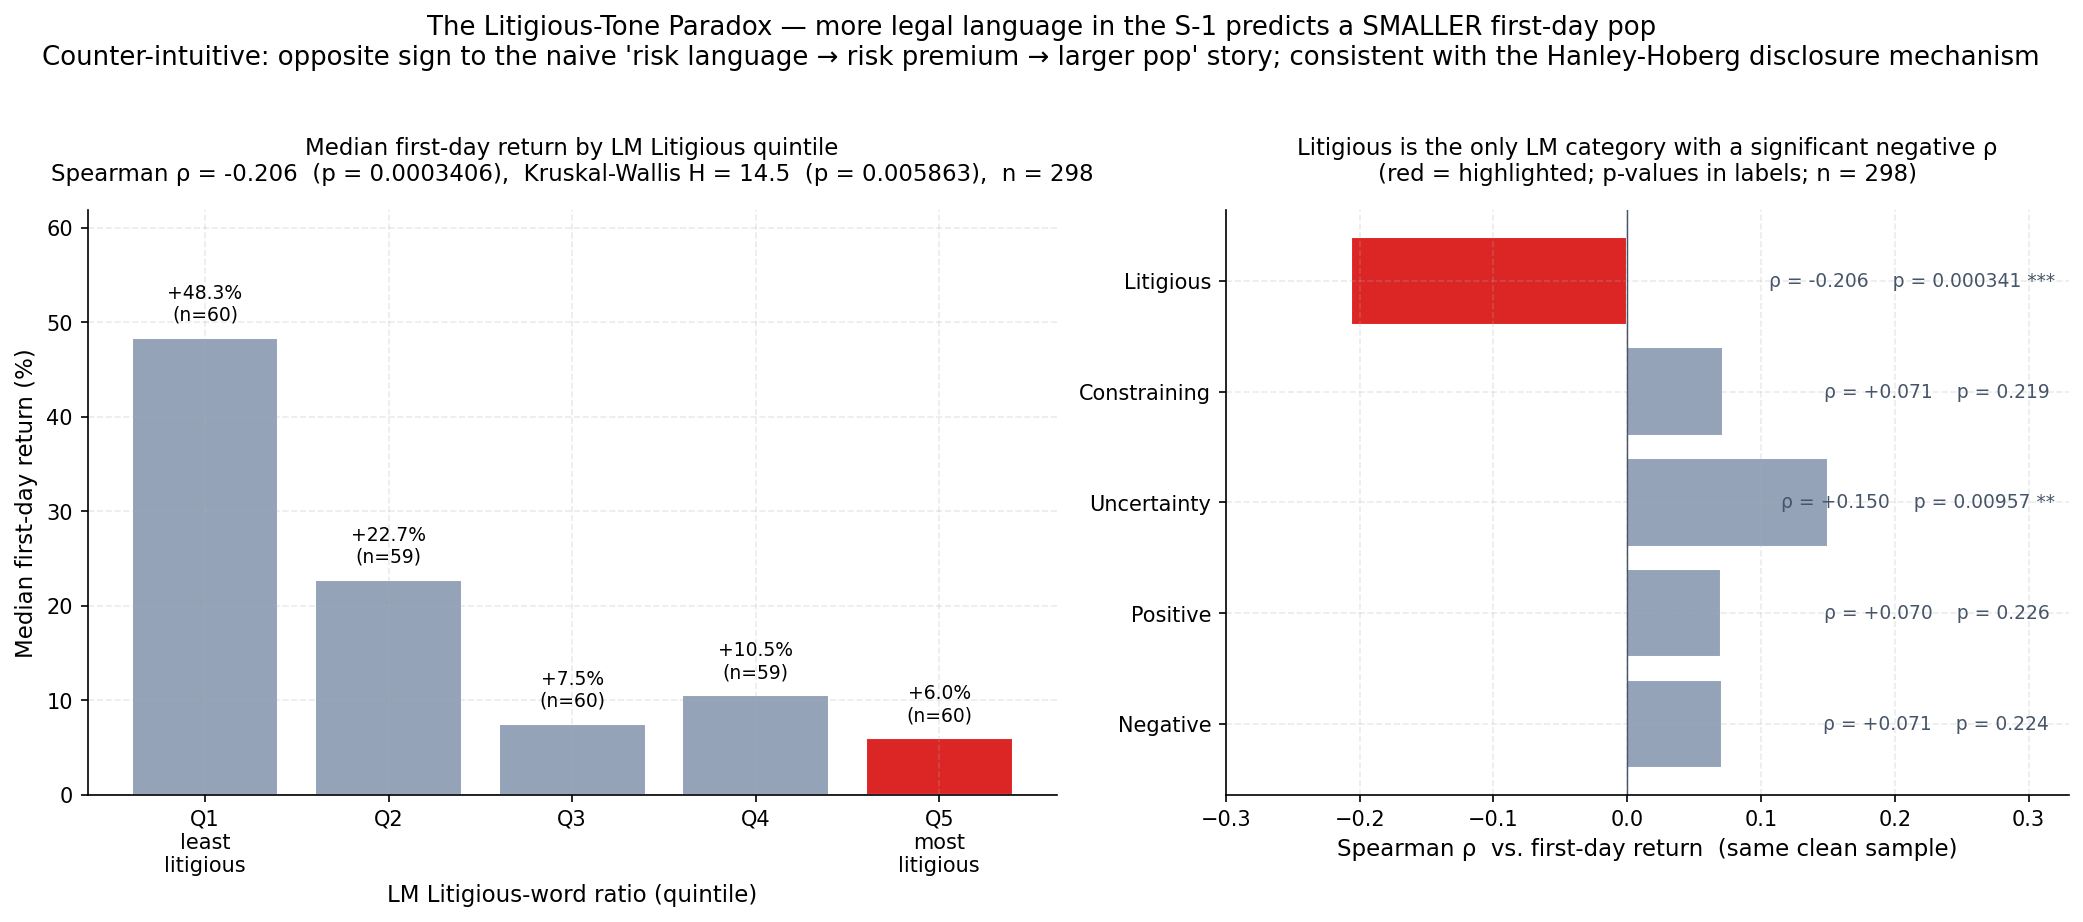
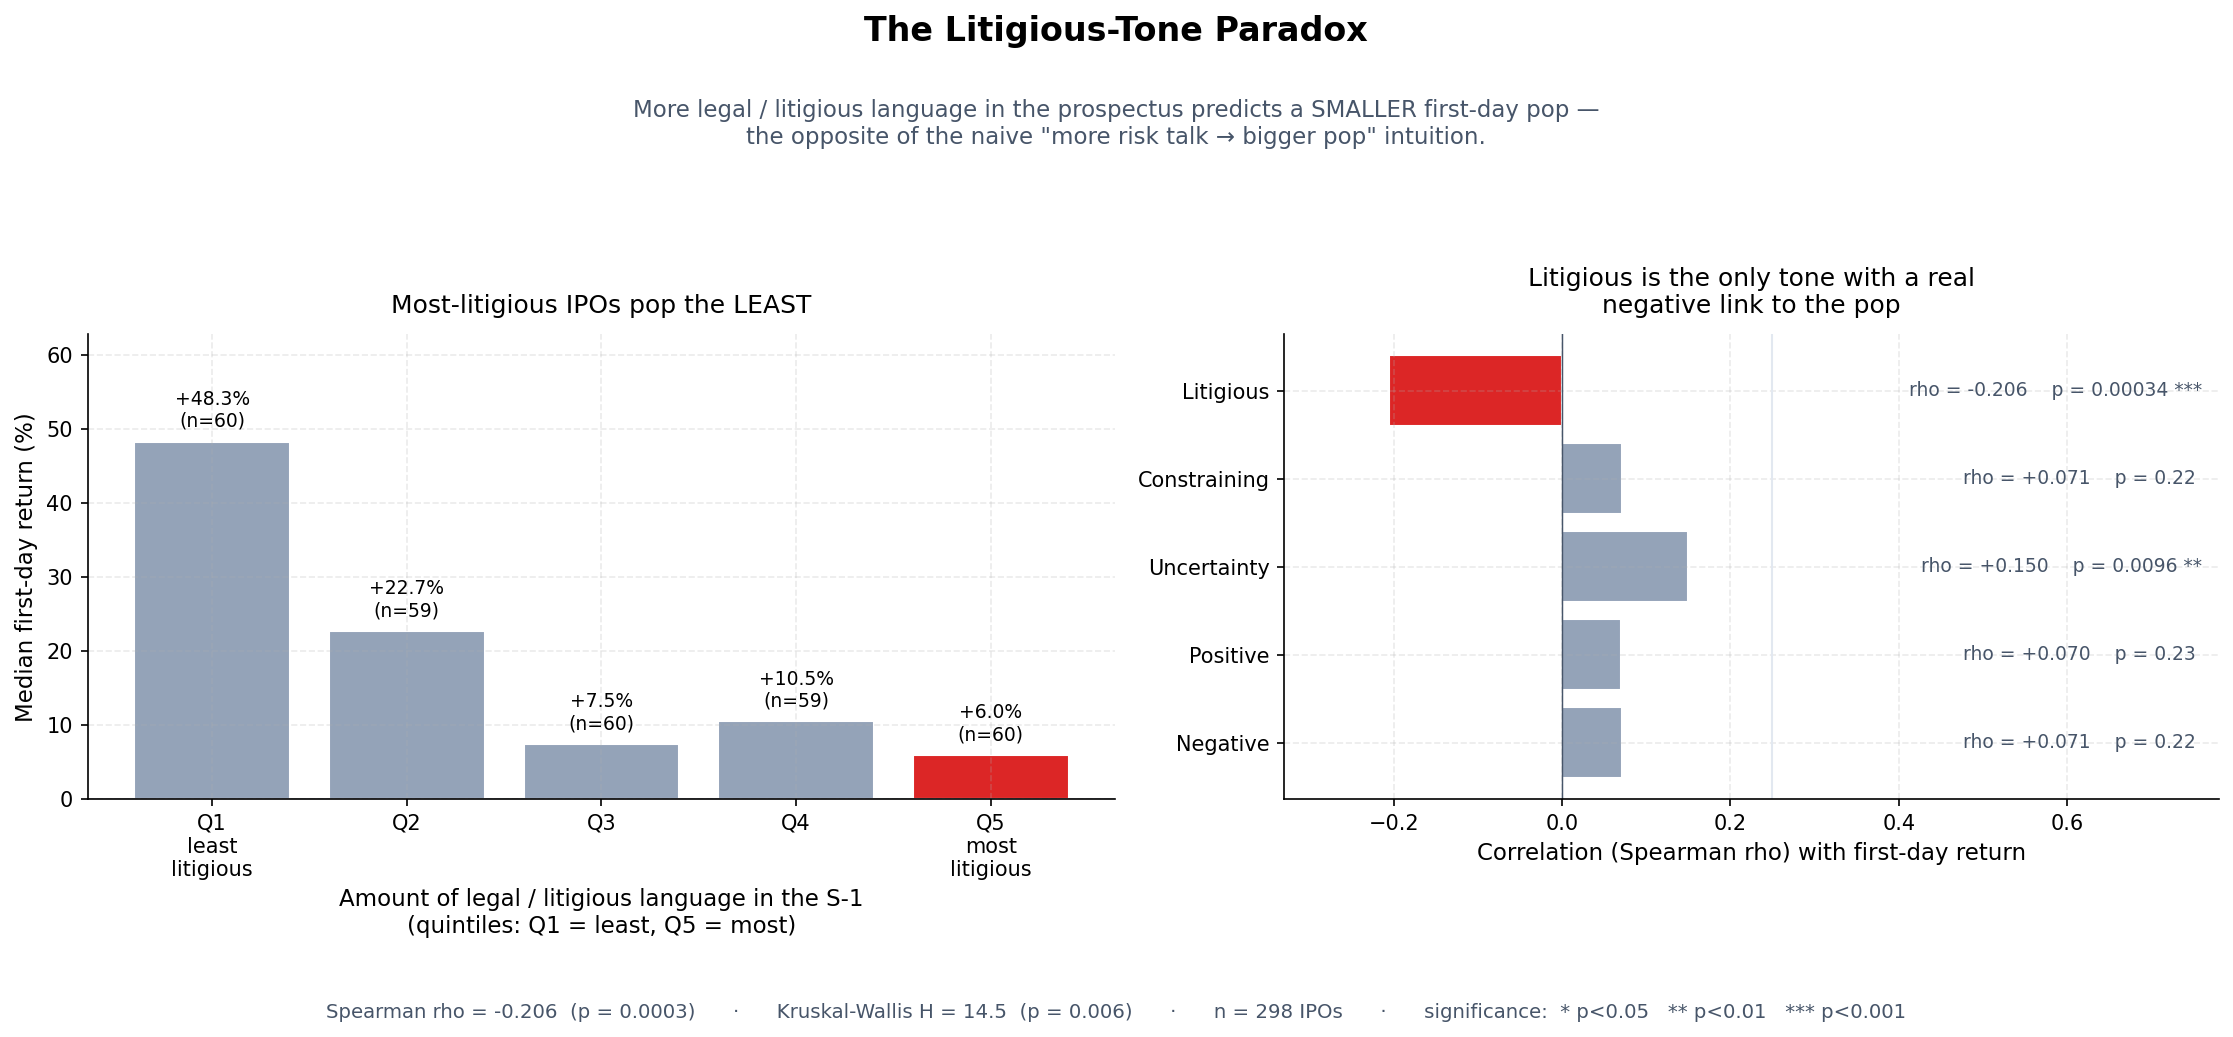
refactor: redesign figure layouts with improved formatting and added split-axis scatter for disclosure concentration

diff --git a/scripts/build_figures.py b/scripts/build_figures.py
@@ -429,60 +429,77 @@ def fig_litigious_paradox(df: pd.DataFrame) -> None:
     summary = pd.DataFrame(rows).set_index("category")
     summary = summary.reindex([lbl for _, lbl in lm_cols])
 
-    fig, (ax1, ax2) = plt.subplots(1, 2, figsize=(14, 6),
-                                    gridspec_kw={"width_ratios": [1.15, 1]})
+    fig, (ax1, ax2) = plt.subplots(1, 2, figsize=(15, 7),
+                                    gridspec_kw={"width_ratios": [1.1, 1]})
 
-    # Left: bars + count labels
+    # --- Left: quintile bars -------------------------------------------------
+    # Keep the title to ONE short plain-language line; the heavy statistics go
+    # into a tidy box inside the panel (upper-right, where the bars are short)
+    # so no long line of numbers spills across into the right-hand panel.
     bar_colors = ["#94a3b8", "#94a3b8", "#94a3b8", "#94a3b8", ACCENT]
     bars = ax1.bar(q_agg["lit_q"].astype(str), q_agg["med"] * 100,
                    color=bar_colors, edgecolor="white")
     ax1.axhline(0, color=NEUTRAL, lw=0.7)
     ax1.set_ylabel("Median first-day return (%)")
-    ax1.set_title(
-        "Median first-day return by LM Litigious quintile\n"
-        f"Spearman ρ = {rho:+.3f}  (p = {sp_p:.4g}),  "
-        f"Kruskal-Wallis H = {kw_stat:.1f}  (p = {kw_p:.4g}),  n = {n_clean}",
-        fontsize=11, pad=14,
-    )
+    ax1.set_title("Most-litigious IPOs pop the LEAST", fontsize=12, pad=10)
     max_h = float((q_agg["med"] * 100).max())
-    ax1.set_ylim(0, max_h * 1.28)
+    ax1.set_ylim(0, max_h * 1.30)
     for bar, n_q in zip(bars, q_agg["n"]):
         h = bar.get_height()
         ax1.text(bar.get_x() + bar.get_width() / 2, h + max_h * 0.03,
                  f"{h:+.1f}%\n(n={int(n_q)})", ha="center", va="bottom",
                  fontsize=9)
-    ax1.set_xlabel("LM Litigious-word ratio (quintile)")
+    ax1.set_xlabel("Amount of legal / litigious language in the S-1\n"
+                   "(quintiles: Q1 = least, Q5 = most)")
 
-    # Right: Spearman ρ comparison bar chart, highlight Litigious. Always
-    # place the numeric label to the RIGHT of zero so the y-axis category
-    # labels (which sit at x=0) never collide with bar labels.
+    # --- Right: Spearman-rho comparison across all tone categories -----------
+    # Numeric labels always sit at the far right so they never collide with the
+    # category names that sit at x = 0.
     colors = ["#94a3b8" if c != "Litigious" else ACCENT for c in summary.index]
     bars2 = ax2.barh(summary.index, summary["rho"], color=colors, edgecolor="white")
     ax2.axvline(0, color=NEUTRAL, lw=0.7)
-    ax2.set_xlabel("Spearman ρ  vs. first-day return  (same clean sample)")
-    ax2.set_title(
-        "Litigious is the only LM category with a significant negative ρ\n"
-        f"(red = highlighted; p-values in labels; n = {n_clean})",
-        fontsize=11, pad=14,
-    )
-    x_lo = min(-0.30, summary["rho"].min() - 0.07)
-    x_hi = max(0.32, summary["rho"].max() + 0.18)
+    ax2.set_xlabel("Correlation (Spearman rho) with first-day return")
+    ax2.set_title("Litigious is the only tone with a real\nnegative link to the pop",
+                  fontsize=12, pad=10)
+    # Reserve a wide blank strip on the right for a tidy label column. x_hi is
+    # pushed well past the longest bar so the right-aligned labels never touch
+    # any bar. label_x marks where that column lives.
+    x_lo = min(-0.33, summary["rho"].min() - 0.10)
+    x_hi = max(0.78, summary["rho"].max() + 0.55)
+    label_x = x_hi - 0.02
     ax2.set_xlim(x_lo, x_hi)
+    # Light divider between the bars and the label column.
+    ax2.axvline(summary["rho"].max() + 0.10, color="#e2e8f0", lw=1)
     for bar, (cat, row) in zip(bars2, summary.iterrows()):
         x = bar.get_width()
         sig = "***" if row["p"] < 0.001 else ("**" if row["p"] < 0.01
               else ("*" if row["p"] < 0.05 else ""))
-        ax2.text(x_hi - 0.01, bar.get_y() + bar.get_height() / 2,
-                 f"ρ = {x:+.3f}    p = {row['p']:.3g} {sig}",
+        ax2.text(label_x, bar.get_y() + bar.get_height() / 2,
+                 f"rho = {x:+.3f}    p = {row['p']:.2g} {sig}",
                  ha="right", va="center", fontsize=9, color=NEUTRAL)
 
-    fig.suptitle(
-        "The Litigious-Tone Paradox — more legal language in the S-1 predicts a SMALLER first-day pop\n"
-        "Counter-intuitive: opposite sign to the naive 'risk language → risk premium → larger pop' story; "
-        "consistent with the Hanley-Hoberg disclosure mechanism",
-        fontsize=12.5, y=1.02,
+    # All free text lives OUTSIDE the two plotting axes: a headline + explainer
+    # in the reserved top band, and the statistics in a caption strip along the
+    # bottom. tight_layout's rect keeps the axes between them so nothing can
+    # crash into the charts.
+    fig.suptitle("The Litigious-Tone Paradox", fontsize=16,
+                 fontweight="bold", y=0.985)
+    fig.text(
+        0.5, 0.905,
+        "More legal / litigious language in the prospectus predicts a SMALLER "
+        "first-day pop —\nthe opposite of the naive \"more risk talk → bigger "
+        "pop\" intuition.",
+        ha="center", va="top", fontsize=11, color=NEUTRAL,
     )
-    fig.tight_layout()
+    fig.text(
+        0.5, 0.035,
+        f"Spearman rho = {rho:+.3f}  (p = {sp_p:.1g})      ·      "
+        f"Kruskal-Wallis H = {kw_stat:.1f}  (p = {kw_p:.1g})      ·      "
+        f"n = {n_clean} IPOs      ·      "
+        "significance:  * p<0.05   ** p<0.01   *** p<0.001",
+        ha="center", va="center", fontsize=9.5, color=NEUTRAL,
+    )
+    fig.tight_layout(rect=[0, 0.08, 1, 0.82])
     save(fig, "11_litigious_paradox.png")
 
 
@@ -491,12 +508,14 @@ def fig_litigious_paradox(df: pd.DataFrame) -> None:
 # ---------------------------------------------------------------------------
 
 def fig_disclosure_concentration(df: pd.DataFrame) -> None:
-    """Two-panel figure for H3: where the negative tone lives matters.
+    """Three-panel figure for H3: where the negative tone lives matters.
 
-    Left: tercile bars (T1_pervasive / T2_mid / T3_compartmentalised) showing
-          median first-day return by risk_concentration_ratio tercile.
-    Right: scatter of risk_concentration_ratio vs underpricing with a
-           tercile-median line overlaid.
+    Left:   tercile bars (T1_pervasive / T2_mid / T3_compartmentalised) showing
+            median first-day return by risk_concentration_ratio tercile.
+    Middle: scatter of risk_concentration_ratio vs first-day return for the
+            BULK of the sample (return ≤ 200%), with a quintile-median line.
+    Right:  the handful of >200% "moonshot" IPOs broken out on their own axis
+            so they don't blow out the y-scale of the main scatter.
     """
     from scipy import stats as _stats
 
@@ -527,8 +546,20 @@ def fig_disclosure_concentration(df: pd.DataFrame) -> None:
           for _, g in clean.groupby("_tercile", observed=True)]
     )
 
-    fig, (ax1, ax2) = plt.subplots(1, 2, figsize=(14, 6),
-                                    gridspec_kw={"width_ratios": [1, 1.2]})
+    # Split the scatter at a 200% first-day return so the dense bulk of the
+    # sample and the few extreme "moonshots" each get a readable y-axis.
+    SPLIT = 2.0
+    main = clean[clean["underpricing"] <= SPLIT].copy()
+    moon = clean[clean["underpricing"] > SPLIT].copy()
+    print(
+        f"  disclosure plot: {len(main):,} IPOs at ≤200% first-day return, "
+        f"{len(moon):,} moonshots >200% broken out separately"
+    )
+
+    fig, (ax1, ax2, ax3) = plt.subplots(
+        1, 3, figsize=(17, 6.6),
+        gridspec_kw={"width_ratios": [1, 1.35, 0.85]},
+    )
 
     # --- Left panel: tercile bars -------------------------------------------
     bar_colors = [ACCENT, NEUTRAL, PRIMARY]
@@ -537,11 +568,11 @@ def fig_disclosure_concentration(df: pd.DataFrame) -> None:
     ax1.axhline(0, color=NEUTRAL, lw=0.7)
     ax1.set_ylabel("Median first-day return (%)")
     ax1.set_xlabel("Risk-concentration tercile\n"
-                   "(rf_lm_negative / lm_negative)")
+                   "(risk-factor negative tone ÷ whole-document negative tone)")
     ax1.set_title(
-        "Median first-day return by disclosure-concentration tercile\n"
+        "Median first-day return by\ndisclosure-concentration tercile\n"
         f"Kruskal-Wallis H = {kw_stat:.1f}  (p = {kw_p:.4g}),  n = {n_clean}",
-        fontsize=11, pad=14,
+        fontsize=11, pad=12,
     )
     max_h = float((t_agg["med"] * 100).max())
     ax1.set_ylim(0, max_h * 1.35)
@@ -551,42 +582,54 @@ def fig_disclosure_concentration(df: pd.DataFrame) -> None:
                  f"{h:+.1f}%\n(n={int(row.n)})", ha="center", va="bottom",
                  fontsize=9)
 
-    # --- Right panel: scatter + tercile median line -------------------------
-    cap = clean["underpricing"].quantile(0.95)
-    plot_data = clean[clean["underpricing"] <= cap].copy()
+    # --- Middle panel: main scatter (return ≤ 200%) + quintile median -------
+    ax2.scatter(main["risk_concentration_ratio"], main["underpricing"],
+                s=16, alpha=0.30, color=NEUTRAL, label="IPOs (≤200% return)")
 
-    ax2.scatter(plot_data["risk_concentration_ratio"],
-                plot_data["underpricing"],
-                s=12, alpha=0.30, color=NEUTRAL, label="IPOs (clean)")
-
-    # Tercile median trace
-    plot_data["_t"] = pd.qcut(plot_data["risk_concentration_ratio"], 5,
-                               duplicates="drop")
-    tline = (plot_data.groupby("_t", observed=True)
-                      .agg(x=("risk_concentration_ratio", "mean"),
-                           med=("underpricing", "median"))
-                      .reset_index())
-    ax2.plot(tline["x"], tline["med"], color=PRIMARY, lw=2.5,
-             marker="o", markersize=7, label="Quintile median")
+    main["_t"] = pd.qcut(main["risk_concentration_ratio"], 5,
+                         duplicates="drop")
+    tline = (main.groupby("_t", observed=True)
+                 .agg(x=("risk_concentration_ratio", "mean"),
+                      med=("underpricing", "median"))
+                 .reset_index())
+    ax2.plot(tline["x"], tline["med"], color=PRIMARY, lw=2.8,
+             marker="o", markersize=8, label="Quintile median trend")
     ax2.axhline(0, color=NEUTRAL, ls="--", lw=0.7)
     ax2.yaxis.set_major_formatter(mticker.PercentFormatter(1.0))
-    ax2.set_xlabel("risk_concentration_ratio\n"
-                   "(= rf_lm_negative_ratio / lm_negative_ratio)")
+    ax2.set_ylim(-0.6, SPLIT + 0.05)
+    ax2.set_xlabel("Risk-concentration ratio  (higher → negative tone is\n"
+                   "compartmentalised in the Risk Factors section)")
     ax2.set_ylabel("First-day return")
     ax2.set_title(
-        f"Spearman ρ = {rho:+.3f}  (p = {sp_p:.4g})\n"
-        "Higher ratio = negative tone compartmentalised in Risk Factors",
-        fontsize=11, pad=14,
+        f"Bulk of the sample — first-day return ≤ 200%  (n = {len(main):,})\n"
+        f"Spearman rho = {rho:+.3f}  (p = {sp_p:.4g}, full clean sample)",
+        fontsize=11, pad=12,
     )
-    ax2.legend(loc="upper right", fontsize=8, frameon=True)
+    ax2.legend(loc="upper right", fontsize=9, frameon=True)
+
+    # --- Right panel: moonshots (return > 200%) -----------------------------
+    ax3.scatter(moon["risk_concentration_ratio"], moon["underpricing"],
+                s=36, alpha=0.75, color=ACCENT, edgecolor="white",
+                label=f"IPOs >200% return (n = {len(moon):,})")
+    ax3.yaxis.set_major_formatter(mticker.PercentFormatter(1.0))
+    if len(moon):
+        ax3.set_ylim(SPLIT * 0.95, moon["underpricing"].max() * 1.08)
+    ax3.set_xlabel("Risk-concentration ratio")
+    ax3.set_ylabel("First-day return")
+    ax3.set_title(
+        "Moonshots broken out\nfirst-day return > 200%",
+        fontsize=11, pad=12,
+    )
+    ax3.legend(loc="upper right", fontsize=9, frameon=True)
 
     fig.suptitle(
-        "H3 — Disclosure Concentration Curse\n"
-        "Pervasive negative tone across the whole prospectus → higher underpricing;\n"
-        "compartmentalised negative tone (in Risk Factors only) → lower underpricing",
-        fontsize=12.5, y=1.03,
+        "H3 — Disclosure Concentration Curse:  where the negative tone lives matters\n"
+        "Pervasive negative tone across the whole prospectus → higher underpricing;  "
+        "compartmentalised negative tone (Risk Factors only) → lower underpricing",
+        fontsize=12.5, y=0.99,
     )
-    fig.tight_layout()
+    # rect top = 0.85 keeps the two-line suptitle clear of the panel titles.
+    fig.tight_layout(rect=[0, 0, 1, 0.85])
     save(fig, "12_disclosure_concentration.png")
 
 
